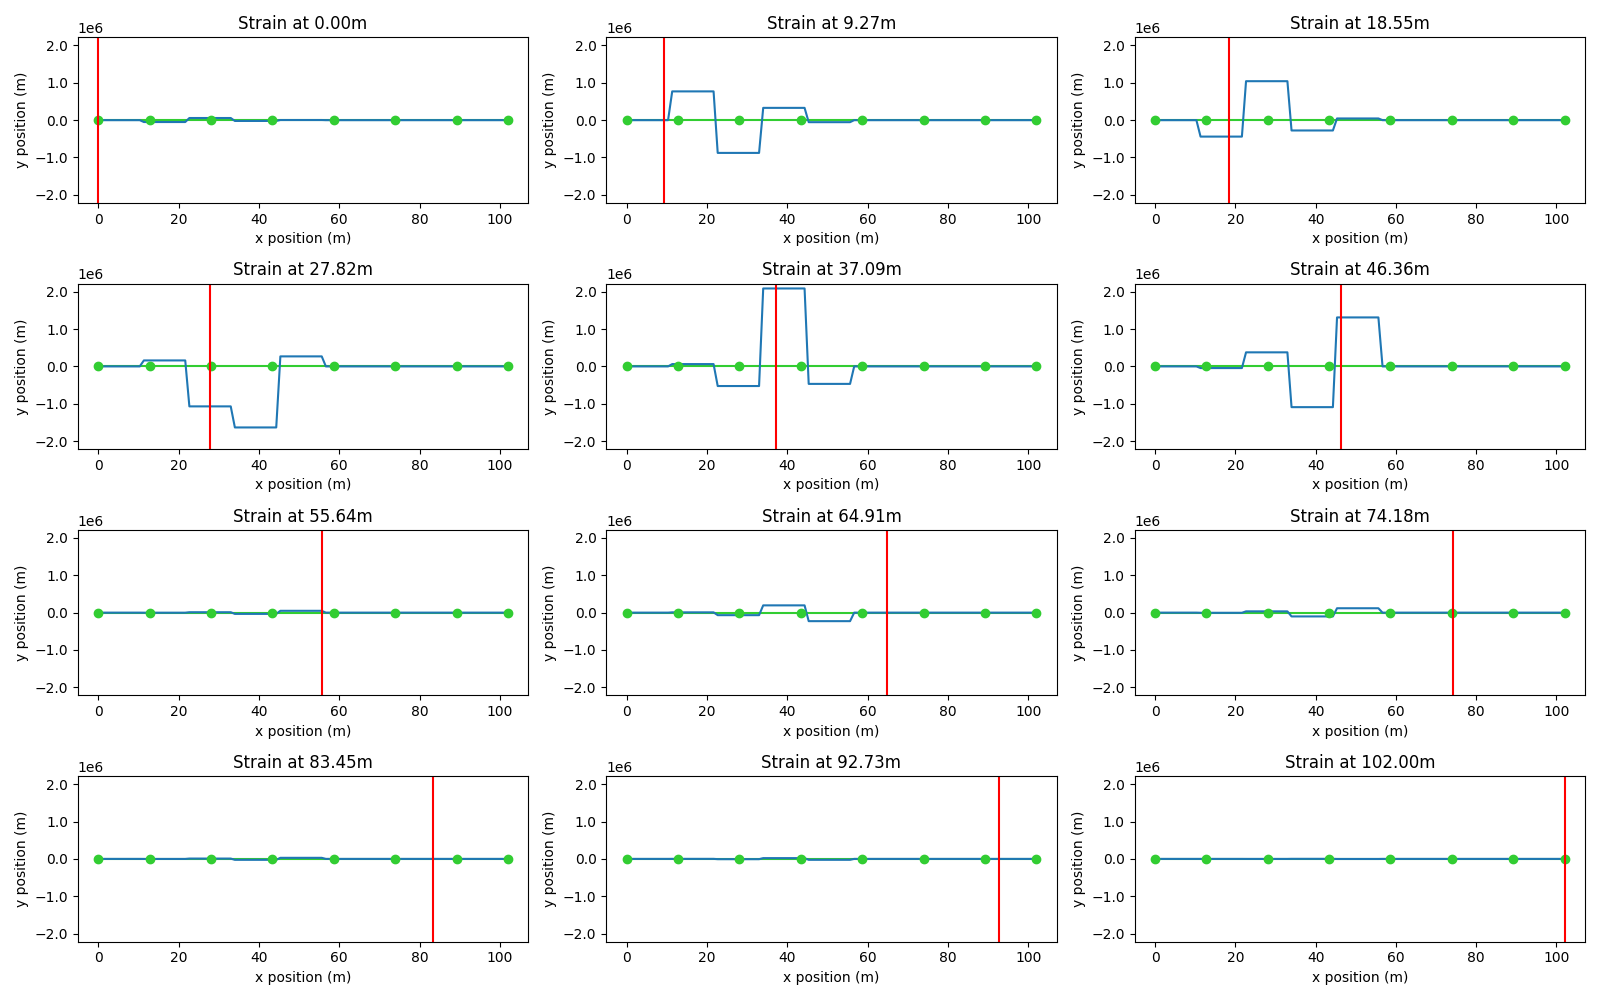
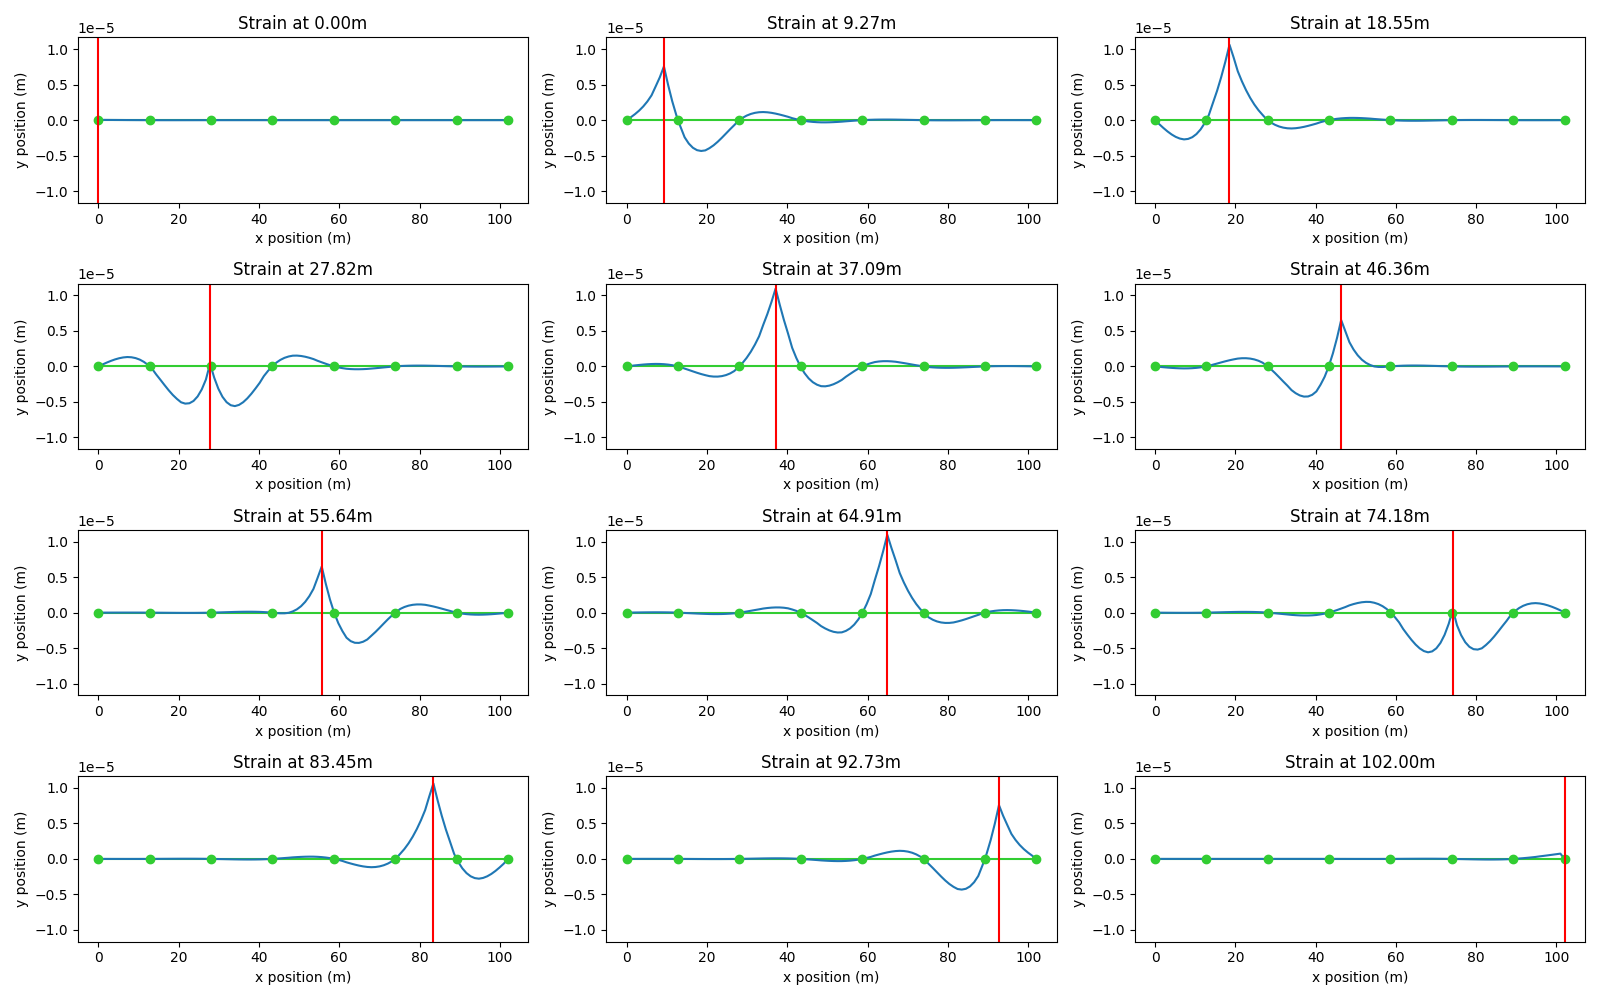
Fix stupid bug, yay!

diff --git a/code/fem/run/opensees/build.py b/code/fem/run/opensees/build.py
@@ -7,7 +7,7 @@ from fem.params import ExptParams, FEMParams
 from model.bridge import Fix, Layer, Patch, Section
 from model.load import DisplacementCtrl, Load
 from model.response import ResponseType
-from util import print_d, print_i
+from util import print_i, print_w
 
 # Print debug information for this file.
 D: bool = False
@@ -59,12 +59,14 @@ def opensees_sections(c: Config):
     """OpenSees section commands for a .tcl file."""
 
     def opensees_patch(p: Patch):
+        # NOTE: the y and x coordinates are opposite to OpenSees documentation.
         return (f"patch rect {p.material.value} 1 {p.num_sub_div_z}"
-                + f" {p.p0.y} {p.p0.z} {p.p1.y} {p.p1.z}")
+                + f" {p.p0.z} {p.p0.y} {p.p1.z} {p.p1.y}")
 
     def opensees_layer(l: Layer):
+        # NOTE: the y and x coordinates are opposite to OpenSees documentation.
         return (f"layer straight {l.material.value} {l.num_fibers}"
-                + f" {l.area_fiber} {l.p0.y} {l.p0.z} {l.p1.y} {l.p1.z}")
+                + f" {l.area_fiber} {l.p0.z} {l.p0.y} {l.p1.z} {l.p1.y}")
 
     def opensees_section(s: Section):
         return (f"section Fiber {s.id} {{"
@@ -85,9 +87,11 @@ def opensees_recorders(
     if ResponseType.XTranslation in response_types:
         node_recorders.append(
             (fem_runner.x_translation_path(fem_params), 1))
+
     if ResponseType.YTranslation in response_types:
         node_recorders.append(
             (fem_runner.y_translation_path(fem_params), 2))
+
     if len(node_recorders) > 0:
         for node_out_file, dof in node_recorders:
             recorders += f"\nrecorder Node -file {node_out_file}"
@@ -100,20 +104,22 @@ def opensees_recorders(
 
     if (ResponseType.Stress in response_types or
             ResponseType.Strain in response_types):
+
         # Record stress and strain for each patch.
         for patch in c.bridge.sections[0].patches:
             point = patch.center()
             recorders += (f"\nrecorder Element -file"
                           + f" {fem_runner.patch_path(fem_params, patch)}"
                           + " -ele " + " ".join(map(str, c.os_elem_ids()))
-                          + f" section 1 fiber {point.y} {point.z} stressStrain")
+                          + f" section 1 fiber {point.z} {point.y} stressStrain")
+
         # Record stress and strain for each fiber in a layer.
         for layer in c.bridge.sections[0].layers:
             for (point, point_path) in zip(
                     layer.points(), fem_runner.layer_paths(fem_params, layer)):
                 recorders += (f"\nrecorder Element -file {point_path}"
                               + " -ele " + " ".join(map(str, c.os_elem_ids()))
-                              + f" section 1 fiber {point.y} {point.z}"
+                              + f" section 1 fiber {point.z} {point.y}"
                               + " stressStrain")
     return recorders
 
@@ -159,7 +165,7 @@ uniaxialMaterial Elastic 2 2.0000000e+11
 """
 
 
-def build_model(c: Config, expt_params: ExptParams, fem_runner: OSRunner):
+def build_model(c: Config, expt_params: ExptParams, fem_runner: "OSRunner"):
     """Build OpenSees model files."""
     for fem_params in expt_params.fem_params:
         print_i(f"OpenSees: building model file with"
@@ -169,7 +175,7 @@ def build_model(c: Config, expt_params: ExptParams, fem_runner: OSRunner):
         # For displacement control check that the required pier is not fixed
         # for displacement.
         if fem_params.displacement_ctrl is not None:
-            print_d(D, "Displacmenet control!!")
+            print_w(D, "Displacement control!")
             fix = c.bridge.fixed_nodes[fem_params.displacement_ctrl.pier]
             if fix.y:
                 nid = int(np.interp(fix.x_frac, (0, 1), (1, c.os_num_nodes())))

diff --git a/code/make/make_plots.py b/code/make/make_plots.py
@@ -39,16 +39,16 @@ def make_bridge_plots(c: Config):
 def make_il_plots(c: Config):
     """Make plots of the influence lines."""
     for response_type in ResponseType:
-        num_ils, num_x = 10, 100
+        num_ils, num_x = 100, 100
         il_matrix = load_il_matrix(
             c=c, response_type=response_type, fem_runner=os_runner(c),
             num_loads=num_ils)
-        # imshow_il(
-        #     c=c, il_matrix=il_matrix, num_ils=num_ils, num_x=num_x,
-        #     save=c.image_path(
-        #         f"ils/il-imshow-{il_matrix.fem_runner_name}"
-        #         + f"-{response_type.name()}"
-        #         + f"-{num_ils}-{num_x}"))
+        imshow_il(
+            c=c, il_matrix=il_matrix, num_ils=num_ils, num_x=num_x,
+            save=c.image_path(
+                f"ils/il-imshow-{il_matrix.fem_runner_name}"
+                + f"-{response_type.name()}"
+                + f"-{num_ils}-{num_x}"))
         rows, cols = 4, 3
         matrix_subplots(
             c, il_matrix, rows=rows, cols=cols, plot_func=plot_il,

diff --git a/code/fem/responses/matrix/il.py b/code/fem/responses/matrix/il.py
@@ -5,6 +5,10 @@ from fem.responses.matrix import ResponsesMatrix, load_expt_responses
 from fem.run import FEMRunner
 from model.load import Load
 from model.response import ResponseType
+from util import print_d
+
+# Print debug information for this file.
+D: bool = False
 
 
 class ILMatrix(ResponsesMatrix):
@@ -26,6 +30,7 @@ class ILMatrix(ResponsesMatrix):
         """
         assert 0 <= x_frac <= 1
         assert 0 <= load_x_frac <= 1
+        print_d(D, f"x_frac = {x_frac} = load_x_frac = {load_x_frac}")
         response = self.response_(
             expt_frac=load_x_frac, x_frac=x_frac, y_frac=y_frac, z_frac=z_frac,
             time_index=time_index)
@@ -34,7 +39,7 @@ class ILMatrix(ResponsesMatrix):
 
 def load_il_matrix(
         c: Config, response_type: ResponseType, fem_runner: FEMRunner,
-        num_loads: int = 100, save_all: bool = True) -> ILMatrix:
+        num_loads: int = 1000, save_all: bool = True) -> ILMatrix:
     """Load an ILMatrix from disk, running simulations first if necessary.
 
     Args:

diff --git a/code/fem/responses/matrix/__init__.py b/code/fem/responses/matrix/__init__.py
@@ -78,7 +78,7 @@ class ResponsesMatrix:
         # If an experiment index matches exactly, or not interpolating.
         expt_ind = np.interp(expt_frac, [0, 1], [0, self.num_expts - 1])
         if expt_ind == int(expt_ind) or not interpolate:
-            print_w(f"Not interpolating, expt_frac = {expt_frac}, expt_ind = {expt_ind}")
+            # print_w(f"Not interpolating, expt_frac = {expt_frac}, expt_ind = {expt_ind}")
             return self.expt_responses[int(expt_ind)].at(
                 x_frac=x_frac, y_frac=y_frac, z_frac=z_frac,
                 time_index=time_index)

diff --git a/code/fem/responses/__init__.py b/code/fem/responses/__init__.py
@@ -120,6 +120,13 @@ class FEMResponses:
         self.zs = {x: {y: sorted(points[x][y].keys())
                        for y in self.ys[x]} for x in self.xs}
 
+    def save(self, c: Config):
+        path = fem_responses_path(
+            c=c, fem_params=self.fem_params, response_type=self.response_type,
+            runner_name=self.runner_name)
+        with open(path, "wb") as f:
+            pickle.dump(self._responses, f)
+
     def at(
             self, x_frac: float = 0, y_frac: float = 1, z_frac: float = 0.5,
             time_index: int = 0, interpolate: bool = False):

diff --git a/code/fem/run/__init__.py b/code/fem/run/__init__.py
@@ -102,6 +102,7 @@ class FEMRunner:
             load_str = load_str.replace(char, "")
         fem_id = f"{self.name}-{load_str}"
 
-        ext = "." + self.built_model_ext if ext is None else ext
+        if ext is None:
+            ext = "." + self.built_model_ext
         return os.path.join(
             self.built_files_dir, f"{fem_id}{ext}").replace(" ", "").lower()
